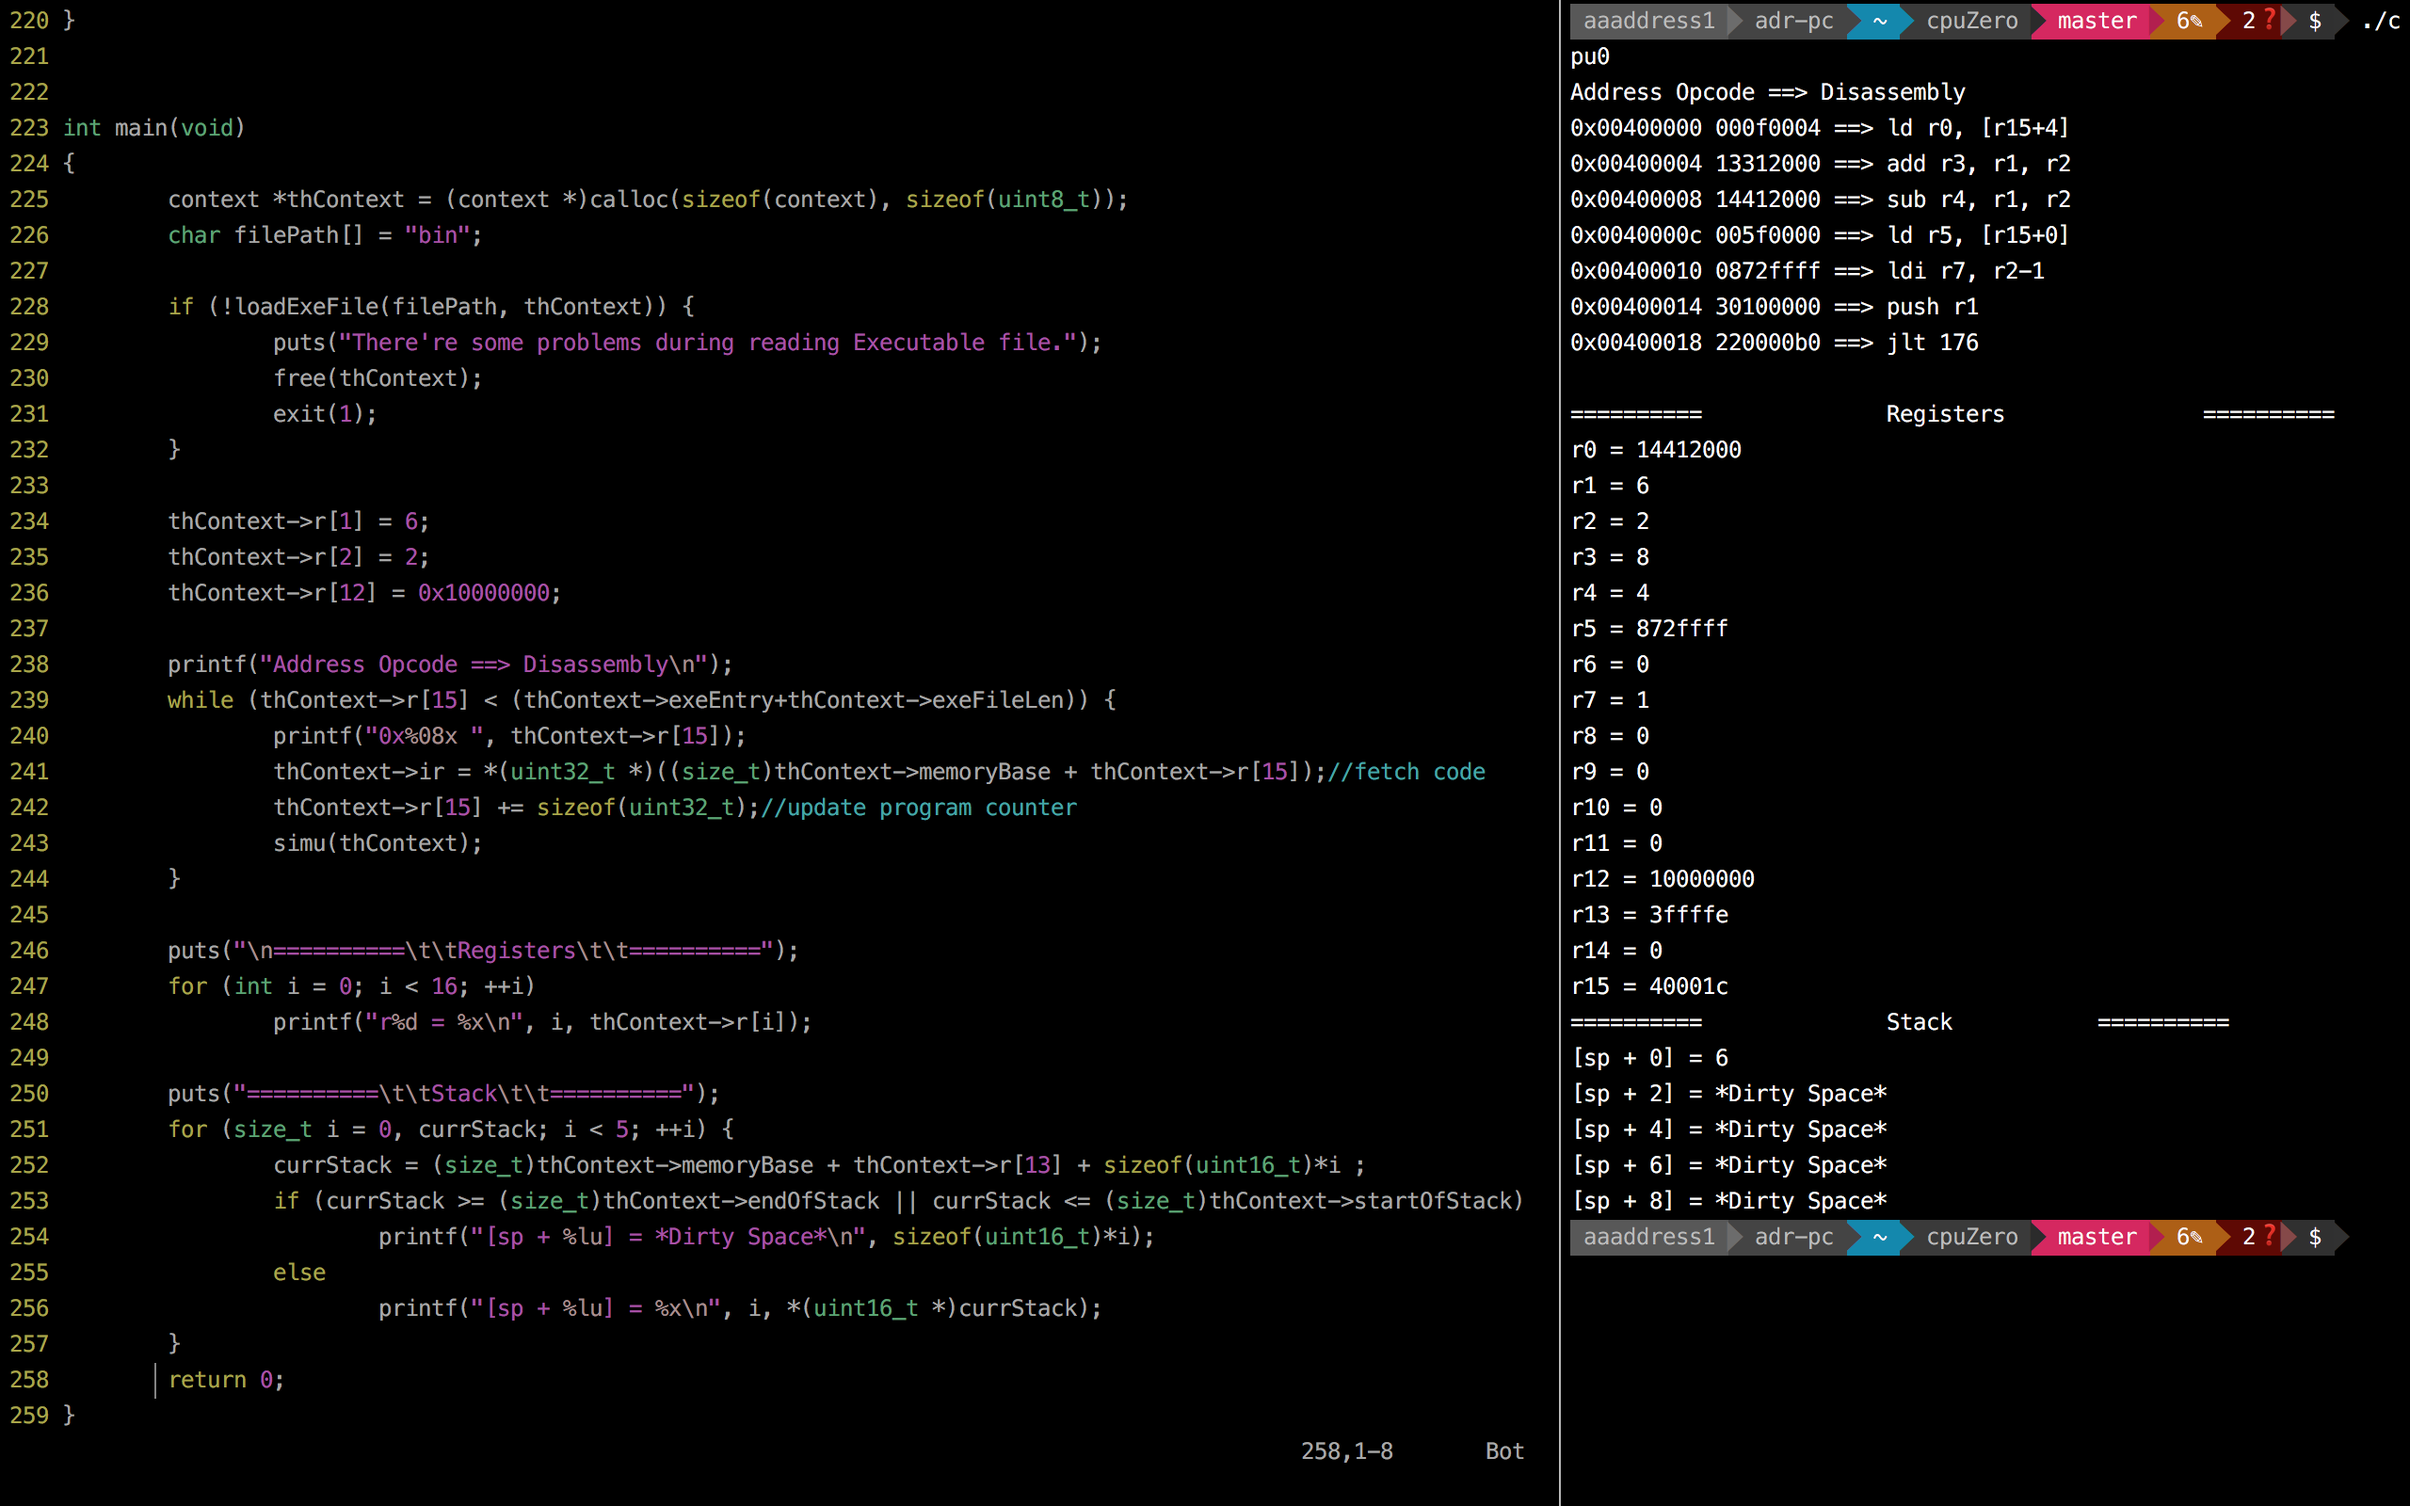
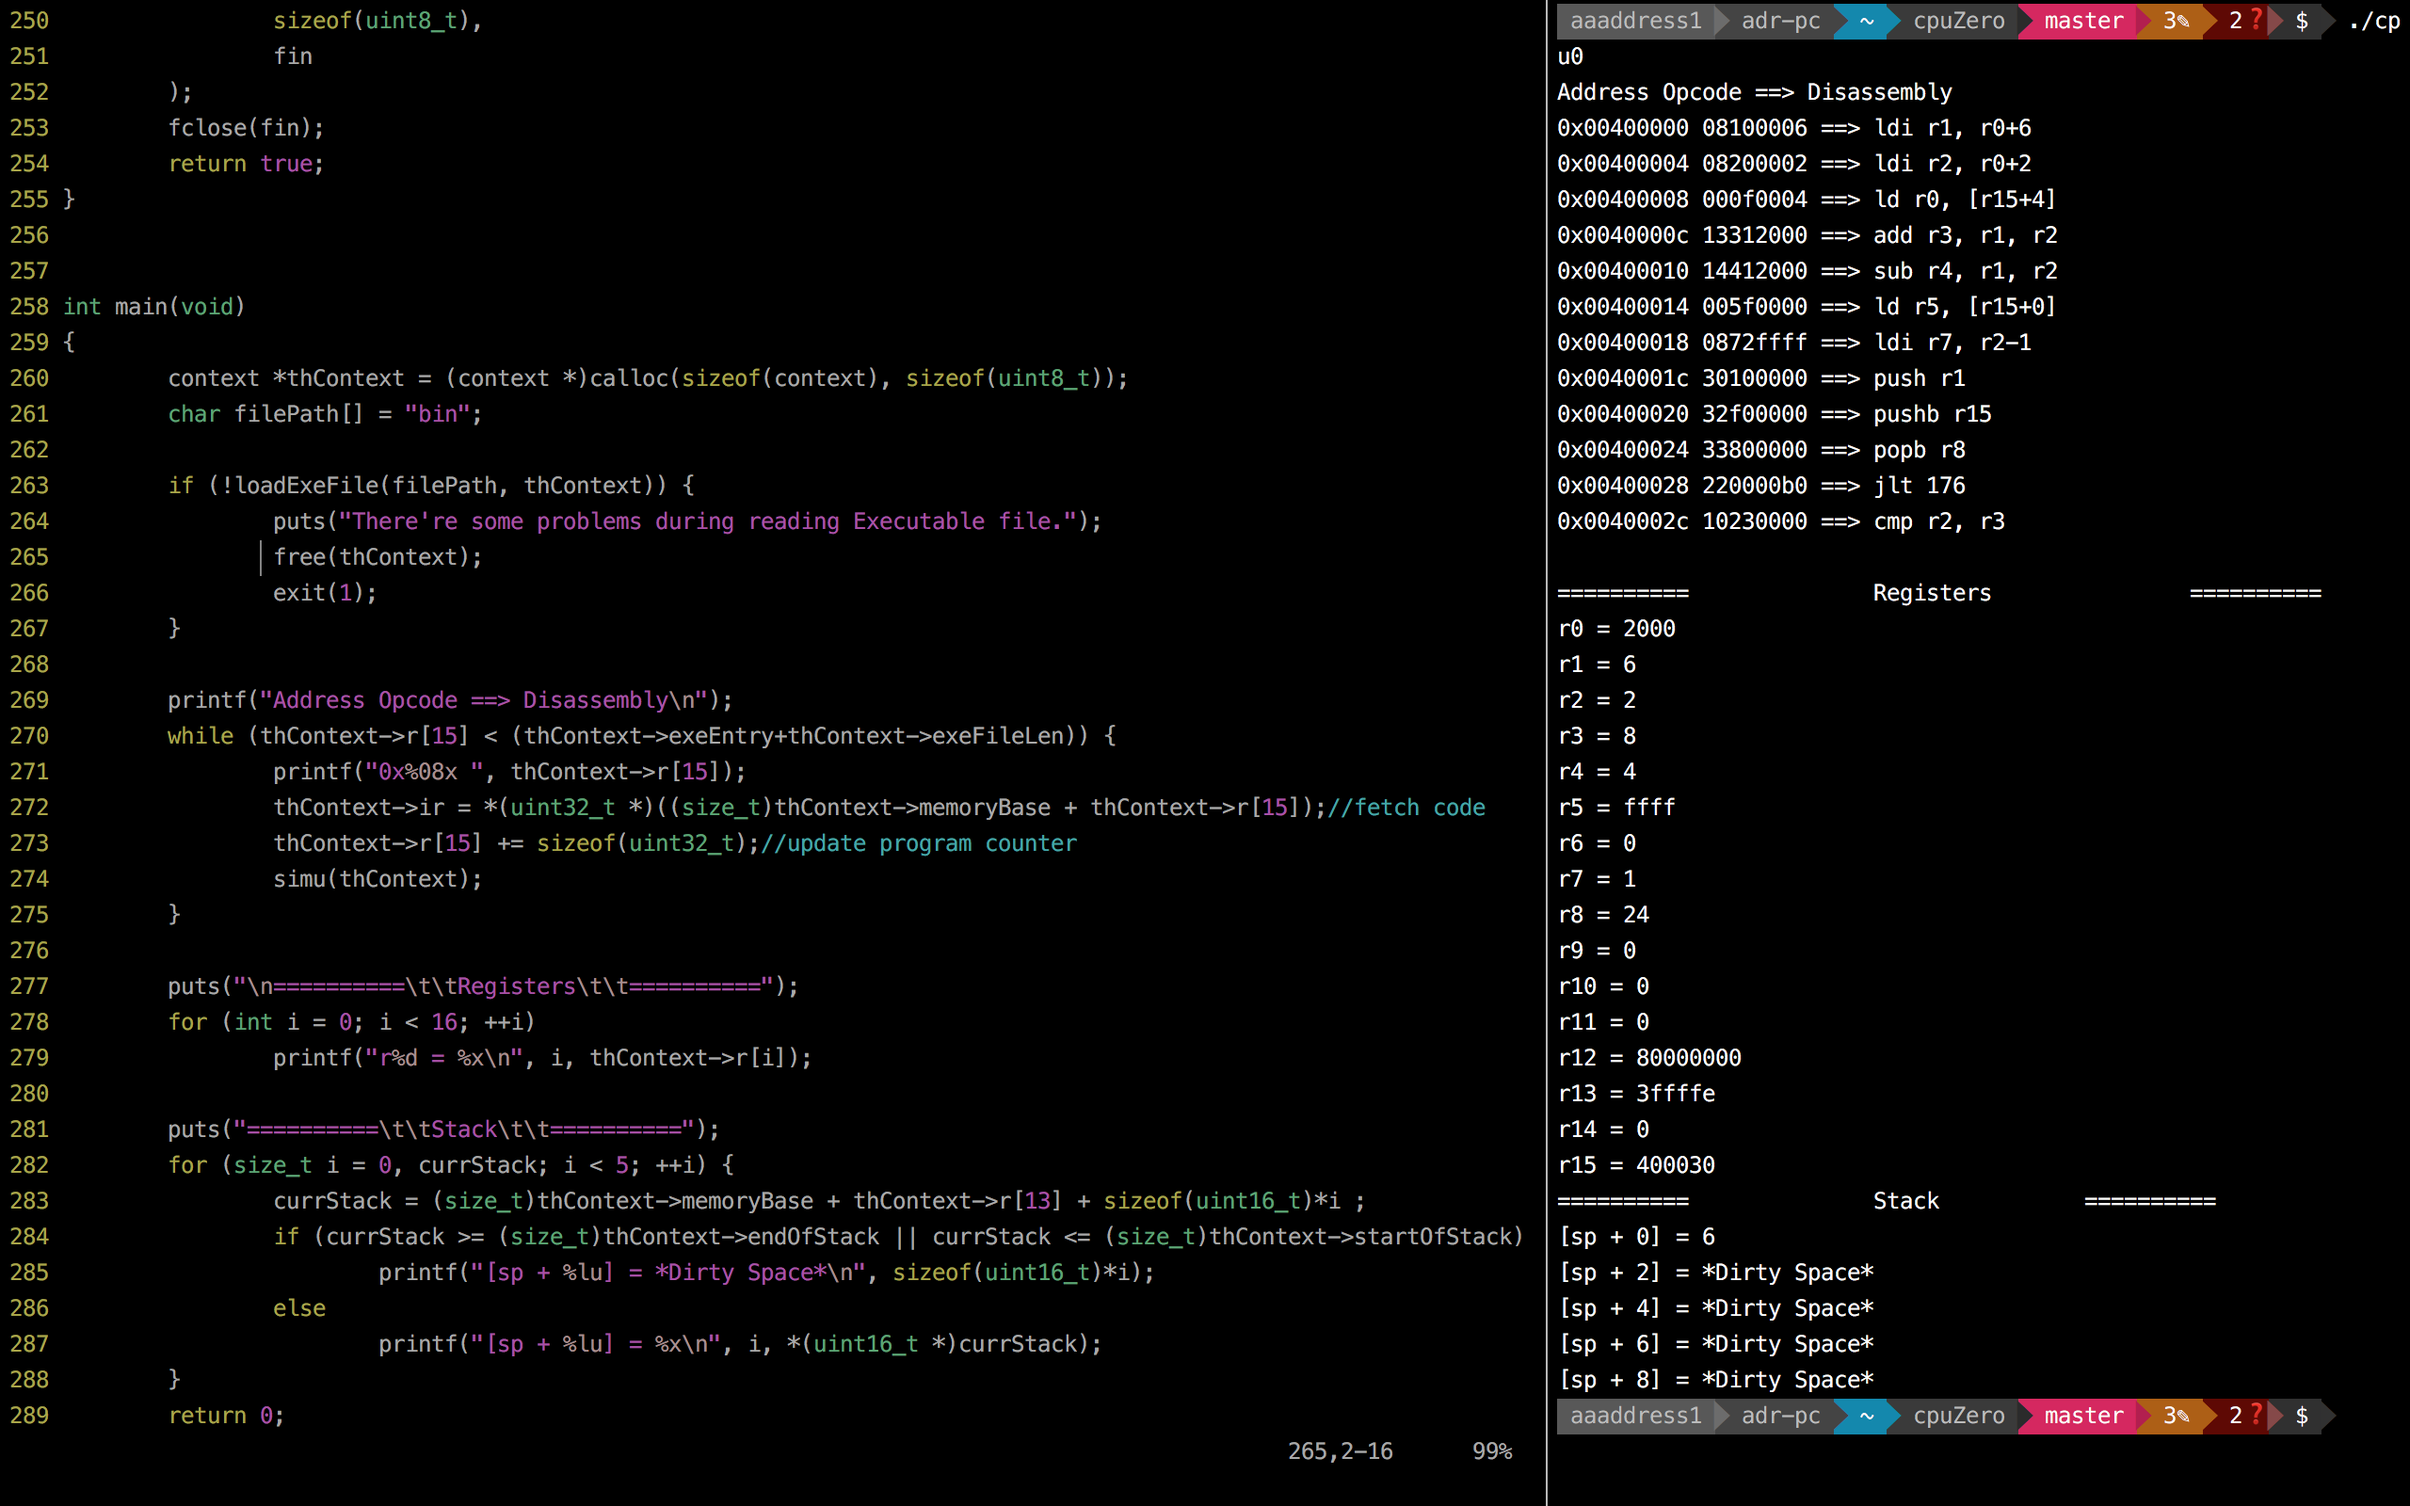
no message

diff --git a/cpu0.cpp b/cpu0.cpp
@@ -3,7 +3,7 @@
 *	CPU0 Simulator In C++
 *
 *	Author	aaaddress1@gmail.com aka adr
-*	Date	2016/10/23
+*	Date	2016/10/28
 *
 **/
 #include <stdio.h>
@@ -15,7 +15,7 @@
 void simu(context *currContext)
 {
 	/* fetch code to cpu0 syntax */
-	uint8_t op, ra, rb, rc;
+	uint8_t op, ra, rb, rc, by;
 	uint32_t ir, cx5, cx12, cx16, cx24;
 	ir = currContext->ir;
 	op = (ir & 0xFF000000) >> 4*6;
@@ -31,7 +31,6 @@ void simu(context *currContext)
 	z = (sw & 0x70000000) >> (28 + 2);
 	c = (sw & 0x30000000) >> (28 + 1);
 	c = (sw & 0x10000000) >> (28 + 0);
-	//printf("n: %x, z: %i, c: %i\n", n, z, c);
 
 	cx5 = ir & 0x0000001F;
 	cx12 = ((int32_t)ir << 4*5) >> 4*5;
@@ -44,12 +43,17 @@ void simu(context *currContext)
 		/* init jump table for branch */
 		case op_ret:
 			printf("%08x ==> ret\n", ir);
+			currContext->r[15] = currContext->r[14];
 			break;
 		case op_call:
 			printf("%08x ==> call %d\n", ir, cx24);
+			currContext->r[14] = currContext->r[15];
+			currContext->r[15] += cx24;
 			break;
 		case op_swi5:
 			printf("%08x ==> swi %d\n", ir, cx24);
+			currContext->r[14] = currContext->r[15];
+			currContext->r[15] = cx24;
 			break;
 		case op_jmp:
 			printf("%08x ==> jmp %d\n", ir, cx24);
@@ -82,32 +86,40 @@ void simu(context *currContext)
 		/* init jump table for syntax L - load & store operation */
 		case op_ldi:
 			printf("%08x ==> ldi r%d, r%d%+d\n", ir, ra, rb, cx16);
-			currContext->r[ra] = (uint32_t)(currContext->r[rb] + (size_t)cx16);
+			currContext->r[ra] = (uint16_t)(currContext->r[rb] + (size_t)cx16);
 			break;
 		case op_ldb:
 			printf("%08x ==> ldb r%d, [r%d%+d]\n", ir, ra, rb, cx16);
+			currContext->r[ra] = *(uint8_t *)(currContext->memoryBase + currContext->r[rb] + (size_t)cx16);
 			break;
 		case op_stb:
 			printf("%08x ==> stb r%d, [r%d%+d]\n", ir, ra, rb, cx16);
+			*(uint8_t *)(currContext->memoryBase + currContext->r[rb] + (size_t)cx16) = currContext->r[ra];
 			break;
 		case op_st:
 			printf("%08x ==> st r%d, [r%d%+d]\n", ir, ra, rb, cx16);
+			*(uint16_t *)(currContext->memoryBase + currContext->r[rb] + (size_t)cx16) = currContext->r[ra];
 			break;
 		case op_ld2:
 			printf("%08x ==> ld r%d, [r%d+%d]\n", ir, ra, rb, cx16);
-			currContext->r[ra] = *(uint32_t *)(currContext->memoryBase + currContext->r[rb] + (size_t)cx16);
+			currContext->r[ra] = *(uint16_t *)(currContext->memoryBase + currContext->r[rb] + (size_t)cx16);
 			break;
 
 		/* init jump table for syntax A - stack operation */
 		case op_popb:
 			printf("%08x ==> popb r%d\n", ir, ra);
+			currContext->r[ra] = *(uint8_t*)(currContext->memoryBase+currContext->r[13]);
+			currContext->r[13] += sizeof(uint16_t);
 			break;
 		case op_pushb:
 			printf("%08x ==> pushb r%d\n", ir, ra);
+			currContext->r[13] -= sizeof(uint16_t);
+			*(uint8_t*)(currContext->memoryBase+currContext->r[13]) = (uint8_t)currContext->r[ra];
 			break;
 		case op_pop:
 			printf("%08x ==> pop r%d\n", ir, ra);
-
+			currContext->r[ra] = *(uint16_t*)(currContext->memoryBase+currContext->r[13]);
+			currContext->r[13] += sizeof(uint16_t);
 			break;
 		case op_push:
 			printf("%08x ==> push r%d\n", ir, ra);
@@ -118,50 +130,73 @@ void simu(context *currContext)
 		/* init jump table for syntax A - generally operation */
 		case op_shl:
 			printf("%08x ==> shl r%d, r%d, %d\n", ir, ra, rb, cx5);
+			by = cx5;
+			currContext->r[ra] = currContext->r[rb] << by;
 			break;
 		case op_shr:
 			printf("%08x ==> shr r%d, r%d, %d\n", ir, ra, rb, cx5);
+			by = cx5;
+			currContext->r[ra] = currContext->r[rb] >> by;
 			break;
 		case op_ror:
 			printf("%08x ==> ror r%d, r%d, %d\n", ir, ra, rb, cx5);
+			by = cx5 % sizeof(uint16_t); 
+			currContext->r[ra] = (currContext->r[rb] << by)|(currContext->r[rb] >> (sizeof(uint16_t)-by));
 			break;
 		case op_rol4:
 			printf("%08x ==> rol r%d, r%d, %d\n", ir, ra, rb, cx5);
+			by = cx5 % sizeof(uint16_t); 
+			currContext->r[ra] = (currContext->r[rb] >> by)|(currContext->r[rb] << (sizeof(uint16_t)-by));
 			break;
 		case op_and:
 			printf("%08x ==> and r%d, r%d, r%d\n", ir, ra, rb, rc);
+			currContext->r[ra] = currContext->r[rb] & currContext->r[rc];
 			break;
 		case op_or:
 			printf("%08x ==> or r%d, r%d, r%d\n", ir, ra, rb, rc);
+			currContext->r[ra] = currContext->r[rb] | currContext->r[rc];
 			break;
 		case op_xor:
 			printf("%08x ==> xor r%d, r%d, r%d\n", ir, ra, rb, rc);
+			currContext->r[ra] = currContext->r[rb] ^ currContext->r[rc];
 			break;
 		case op_div:
 			printf("%08x ==> div r%d, r%d, r%d\n", ir, ra, rb, rc);
+			currContext->r[ra] = currContext->r[rb] / currContext->r[rc];
 			break;
 		case op_mul:
 			printf("%08x ==> mul r%d, r%d, r%d\n", ir, ra, rb, rc);
+			currContext->r[ra] = currContext->r[rb] * currContext->r[rc];
 			break;
 		case op_mov:
 			printf("%08x ==> mov r%d, r%d\n", ir, ra, rb);
+			currContext->r[ra] = currContext->r[rb];
 			break;
 		case op_cmp3:
 			printf("%08x ==> cmp r%d, r%d\n", ir, ra, rb);
+			n = (((int32_t)currContext->r[ra] - (int32_t)currContext->r[rb]) < 0) & 0x01;
+			z = (!(currContext->r[ra] - currContext->r[rb])) & 0x01;
+			c = false;
+			v = false;
+			currContext->r[12] = (n << 31 | z << 30 | c << 29 | v << 28);
 			break;
 
 		/* init jump table for syntax A - load & store operation */
 		case op_sbr:
 			printf("%08x ==> sbr r%d, [r%d+r%d]\n", ir, ra, rb, rc);
+			*(uint8_t *)(currContext->memoryBase + currContext->r[rb] + currContext->r[rc]) = currContext->r[ra];
 			break;
 		case op_lbr:
 			printf("%08x ==> lbr r%d, [r%d+r%d]\n", ir, ra, rb, rc);
+			currContext->r[ra] = *(uint8_t *)(currContext->memoryBase + currContext->r[rb] + currContext->r[rc]);
 			break;
 		case op_str:
 			printf("%08x ==> str r%d, [r%d+r%d]\n", ir, ra, rb, rc);
+			*(uint16_t *)(currContext->memoryBase + currContext->r[rb] + currContext->r[rc]) = currContext->r[ra];
 			break;
 		case op_ldr:
 			printf("%08x ==> ldr r%d, [r%d+r%d]\n", ir, ra, rb, rc);
+			currContext->r[ra] = *(uint16_t *)(currContext->memoryBase + currContext->r[rb] + currContext->r[rc]);
 			break;
 		case op_add:
 			currContext->r[ra] = currContext->r[rb] + currContext->r[rc];
@@ -230,10 +265,6 @@ int main(void)
 		free(thContext);
 		exit(1);
 	}
-
-	thContext->r[1] = 6;
-	thContext->r[2] = 2;
-	thContext->r[12] = 0x10000000;
 
 	printf("Address Opcode ==> Disassembly\n");
 	while (thContext->r[15] < (thContext->exeEntry+thContext->exeFileLen)) {

diff --git a/binaryGen.py b/binaryGen.py
@@ -1,10 +1,6 @@
 from pwn import *
 
 with open('bin','w') as f:
-    f.write(p32(0x000f0004) + 
-    		p32(0x13312000) + 
-    		p32(0x14412000) + 
-    		p32(0x005f0000) +
-    		p32(0x0872ffff) +
-    		p32(0x30100000) +
-    		p32(0x220000b0))
+	arr = [0x08100006,0x08200002,0x000f0004,0x13312000,0x14412000,0x005f0000,0x0872ffff,0x30100000,0x32f00000,0x33800000,0x220000b0,0x10230000]
+	for x in range(len(arr)):
+		f.write(p32(arr[x]))

diff --git a/README.md b/README.md
@@ -2,6 +2,9 @@
 
 ======
 
-Just my homework for a school lesson system program. It's coded in C++ but isn't finished yet. I'm updating for the comming real simulator
+Just my homework for a school lesson system program. It's coded in C++. I'm updating for the comming real simulator.
+
+Now It support every CPU0 instruction and allow simulating a CPU0 executable file dynamicly. 
 
 ![](Demo.png)
+
